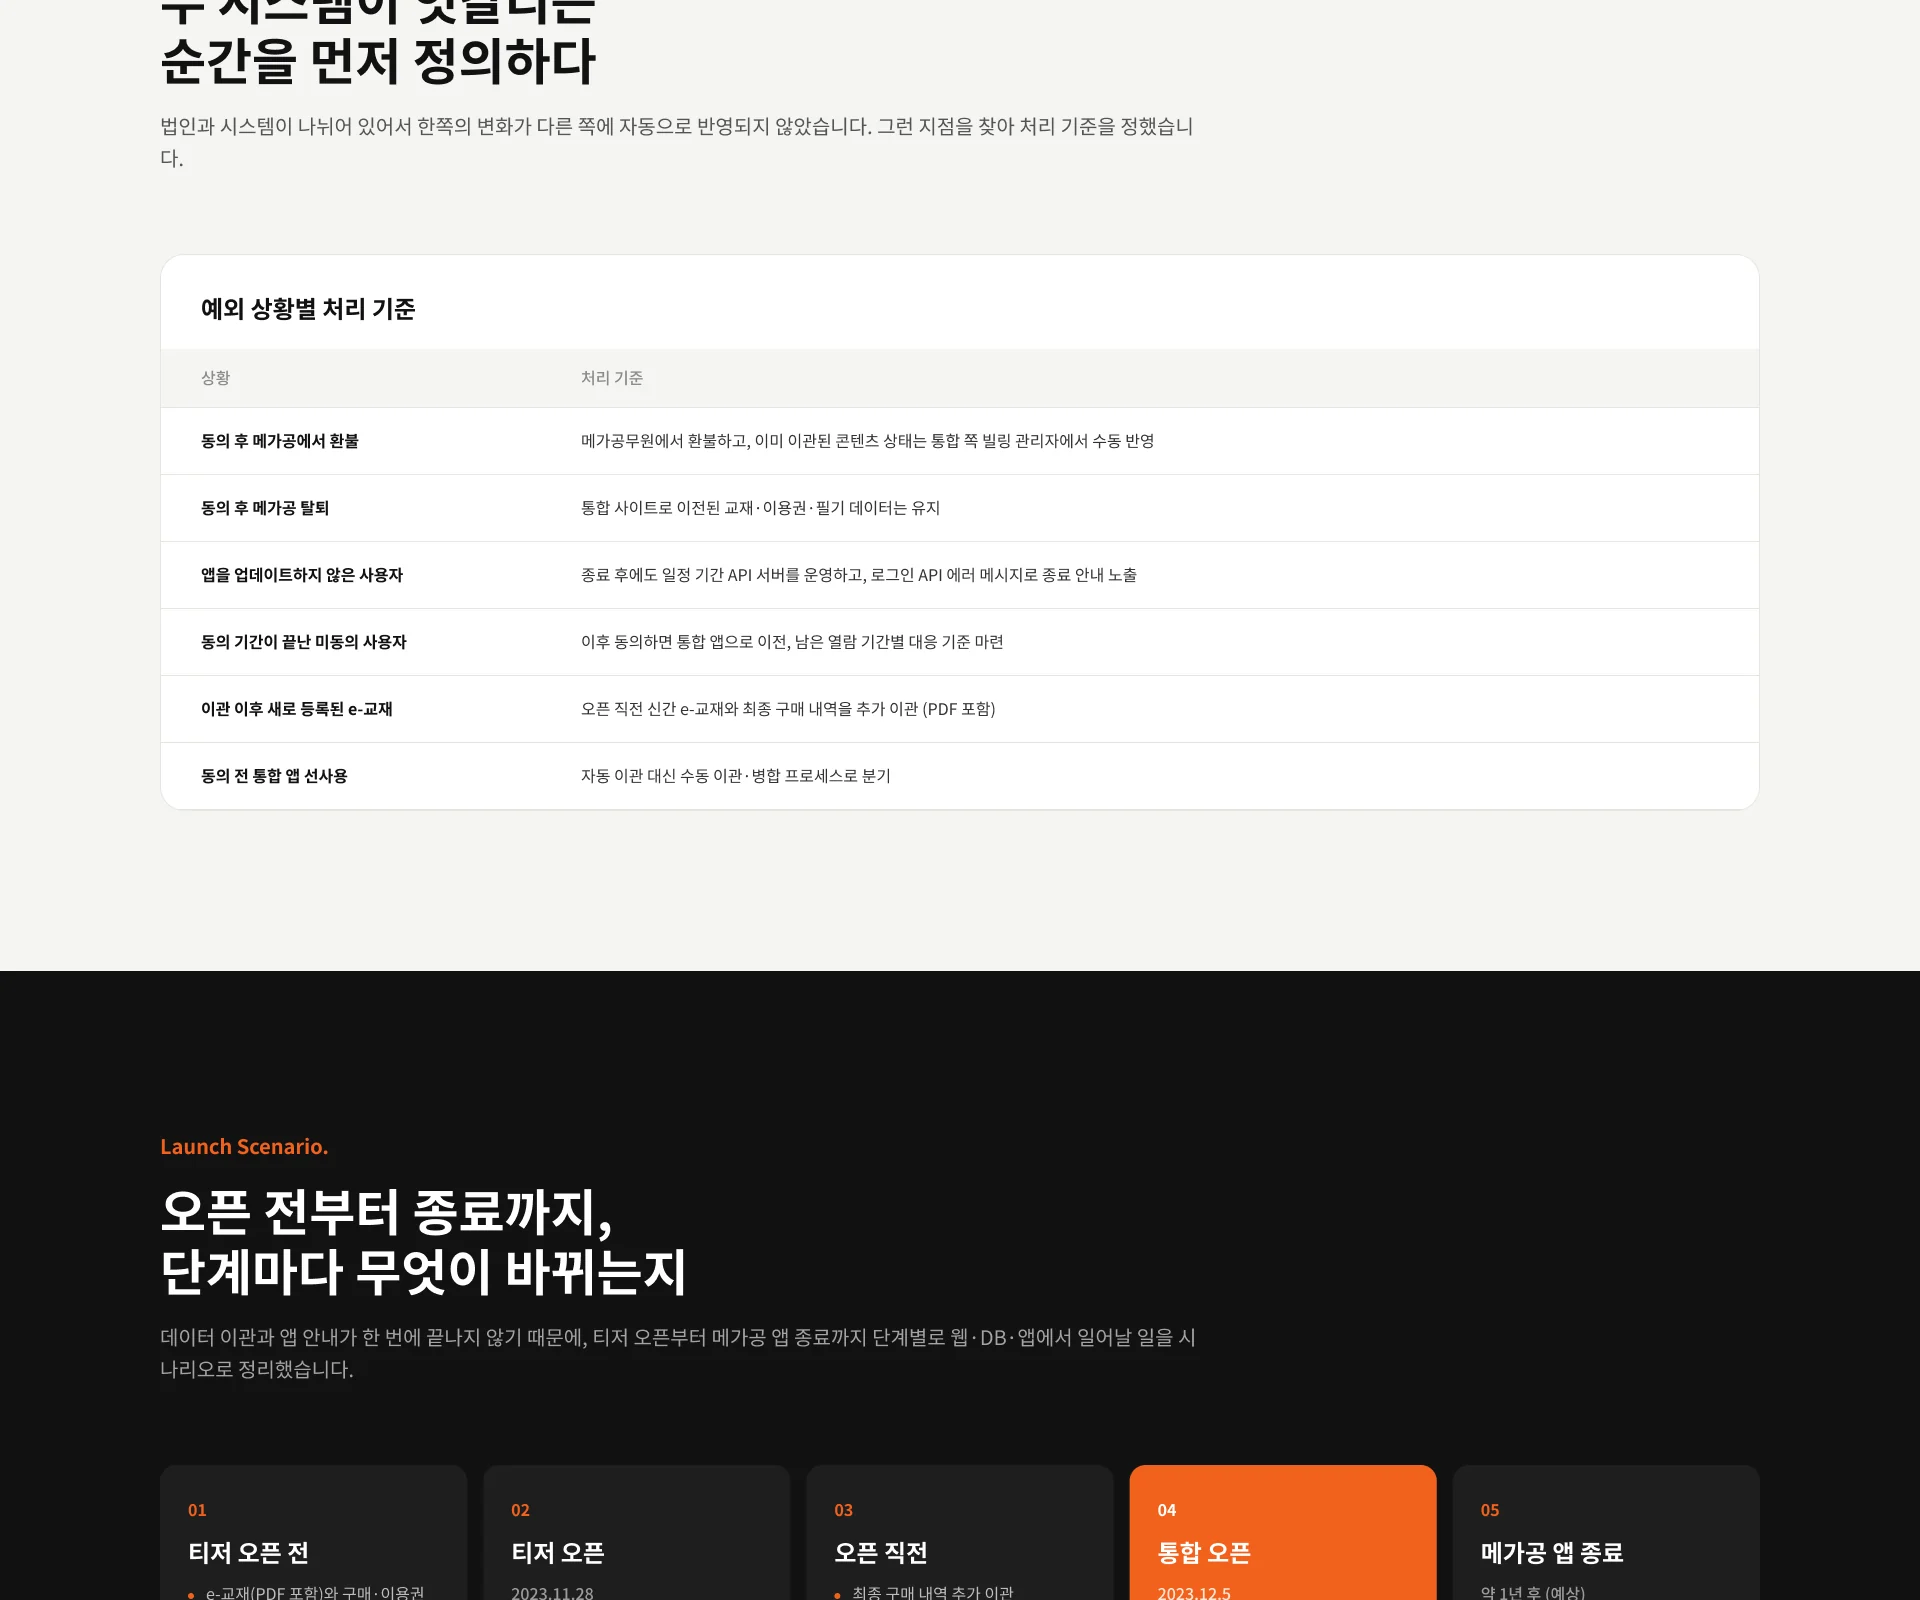
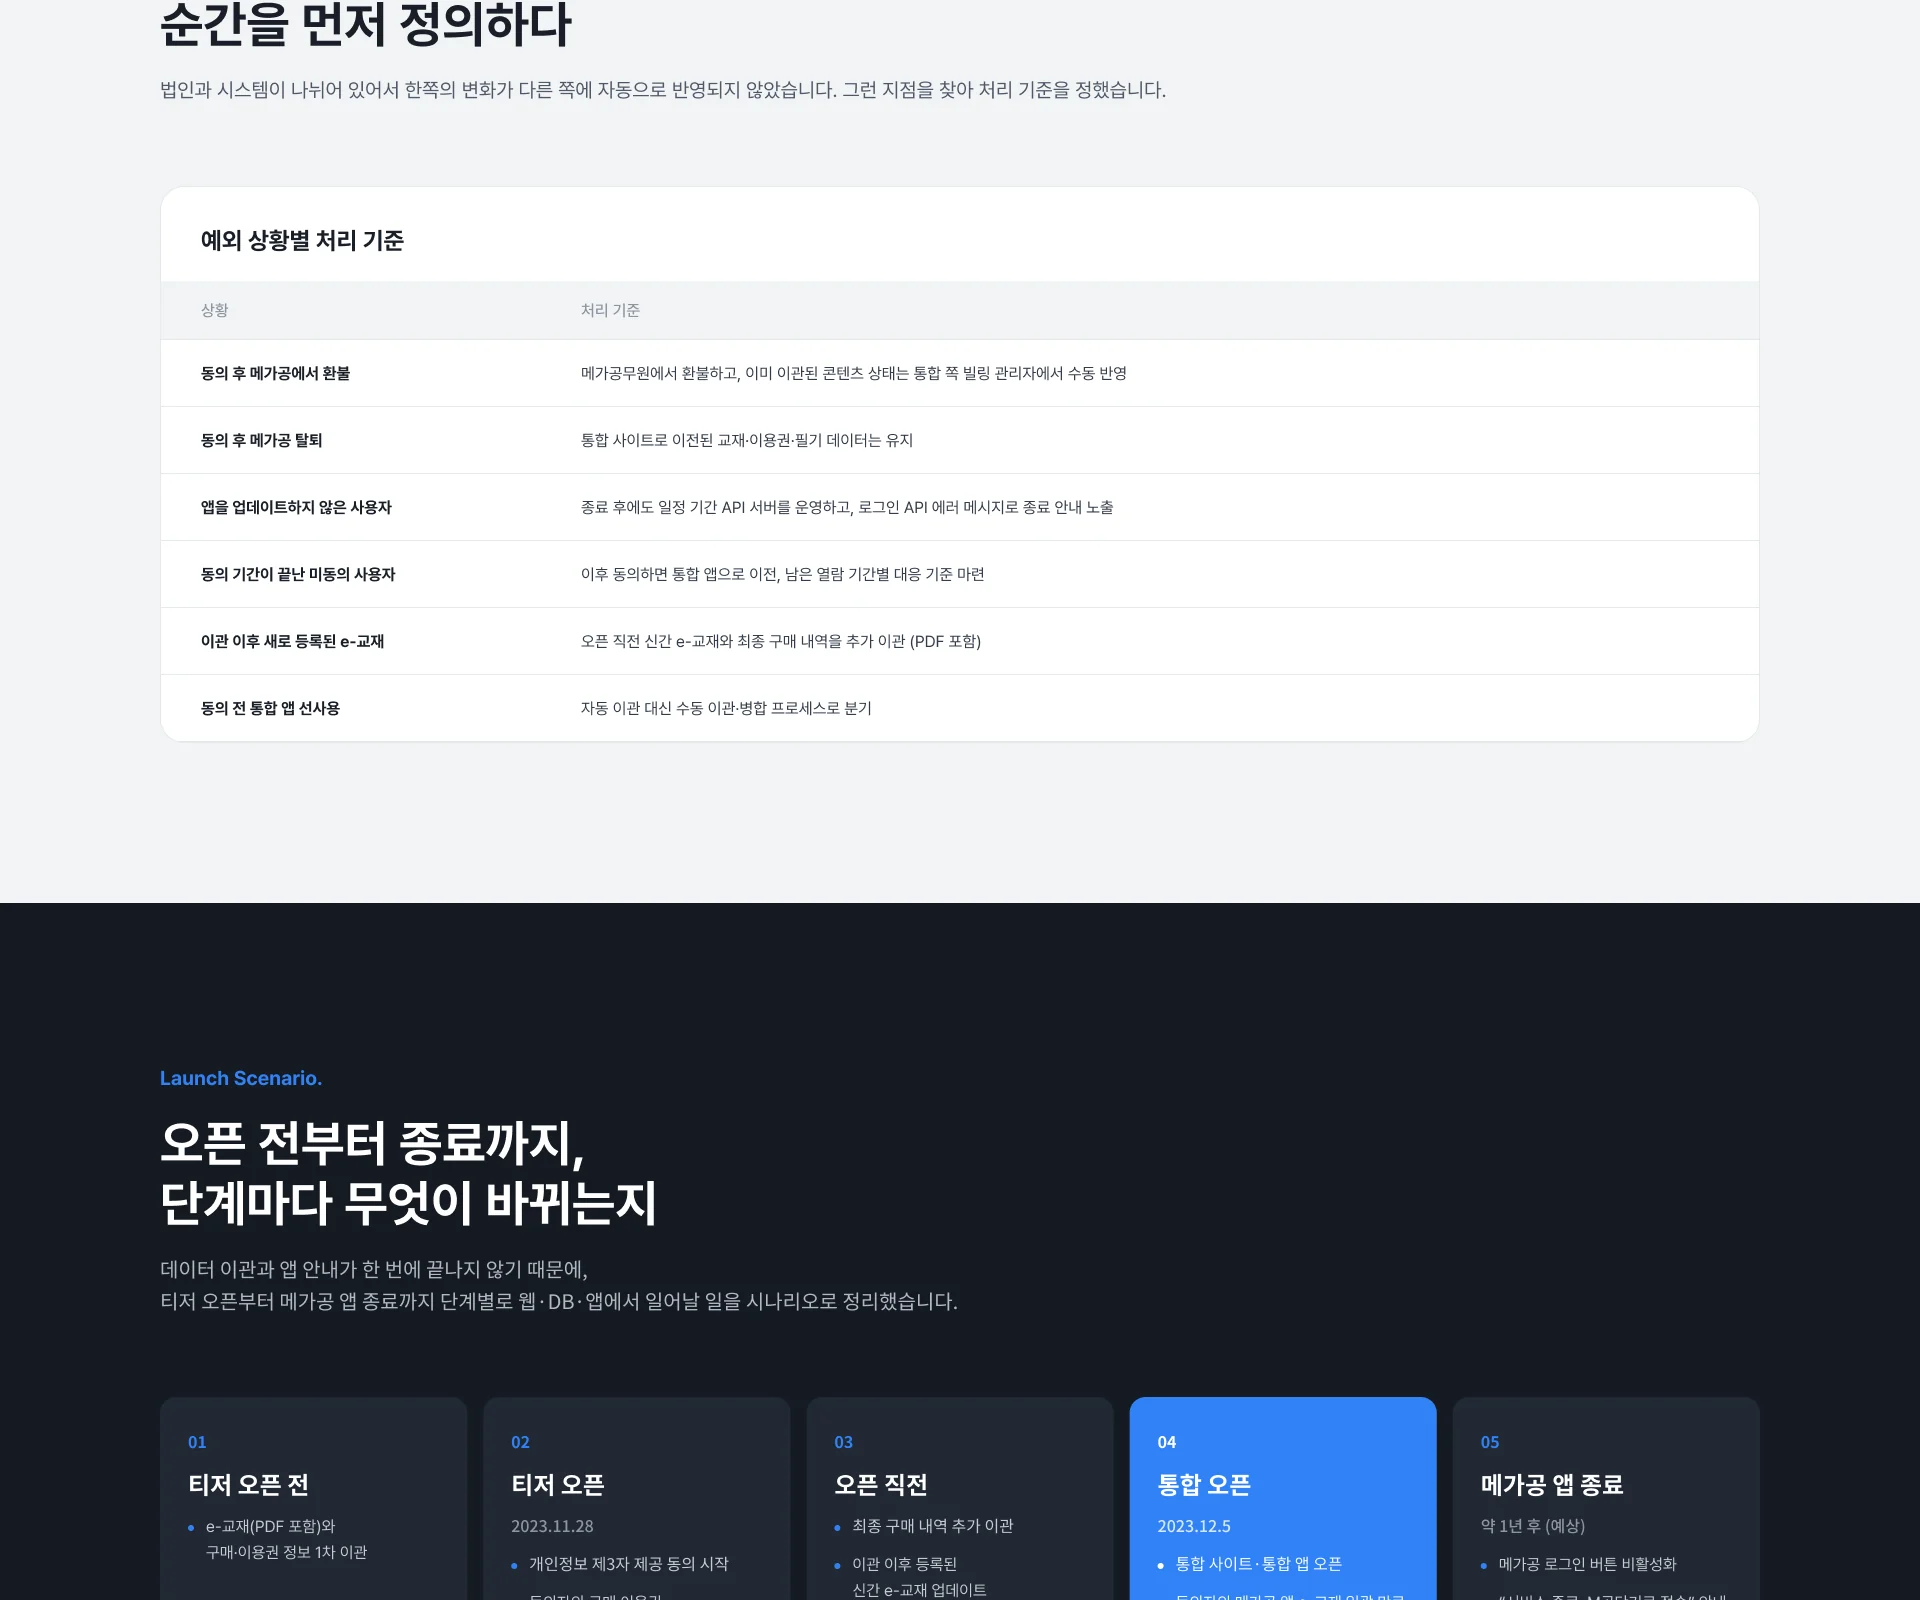
통합 스콘앱 케이스 업데이트: 블루 포인트 컬러, 쿨그레이, 줄바꿈 정리
Claude-Session: https://claude.ai/code/session_01QV7wYqkU83D7bwUJku8a5N

diff --git a/work/scon.html b/work/scon.html
@@ -25,15 +25,14 @@
     </div>
   </header>
   <div class="case-body">
-    <img src="../img/scon/p00.webp" width="1920" height="1600" alt="두 서비스를 하나로, 통합 스콘앱 설계 케이스 스터디 (1/9)">
-    <img src="../img/scon/p01.webp" width="1920" height="1600" alt="두 서비스를 하나로, 통합 스콘앱 설계 케이스 스터디 (2/9)" loading="lazy">
-    <img src="../img/scon/p02.webp" width="1920" height="1600" alt="두 서비스를 하나로, 통합 스콘앱 설계 케이스 스터디 (3/9)" loading="lazy">
-    <img src="../img/scon/p03.webp" width="1920" height="1600" alt="두 서비스를 하나로, 통합 스콘앱 설계 케이스 스터디 (4/9)" loading="lazy">
-    <img src="../img/scon/p04.webp" width="1920" height="1600" alt="두 서비스를 하나로, 통합 스콘앱 설계 케이스 스터디 (5/9)" loading="lazy">
-    <img src="../img/scon/p05.webp" width="1920" height="1600" alt="두 서비스를 하나로, 통합 스콘앱 설계 케이스 스터디 (6/9)" loading="lazy">
-    <img src="../img/scon/p06.webp" width="1920" height="1600" alt="두 서비스를 하나로, 통합 스콘앱 설계 케이스 스터디 (7/9)" loading="lazy">
-    <img src="../img/scon/p07.webp" width="1920" height="1600" alt="두 서비스를 하나로, 통합 스콘앱 설계 케이스 스터디 (8/9)" loading="lazy">
-    <img src="../img/scon/p08.webp" width="1920" height="357" alt="두 서비스를 하나로, 통합 스콘앱 설계 케이스 스터디 (9/9)" loading="lazy">
+    <img src="../img/scon/p00.webp" width="1920" height="1600" alt="두 서비스를 하나로, 통합 스콘앱 설계 케이스 스터디 (1/8)">
+    <img src="../img/scon/p01.webp" width="1920" height="1600" alt="두 서비스를 하나로, 통합 스콘앱 설계 케이스 스터디 (2/8)" loading="lazy">
+    <img src="../img/scon/p02.webp" width="1920" height="1600" alt="두 서비스를 하나로, 통합 스콘앱 설계 케이스 스터디 (3/8)" loading="lazy">
+    <img src="../img/scon/p03.webp" width="1920" height="1600" alt="두 서비스를 하나로, 통합 스콘앱 설계 케이스 스터디 (4/8)" loading="lazy">
+    <img src="../img/scon/p04.webp" width="1920" height="1600" alt="두 서비스를 하나로, 통합 스콘앱 설계 케이스 스터디 (5/8)" loading="lazy">
+    <img src="../img/scon/p05.webp" width="1920" height="1600" alt="두 서비스를 하나로, 통합 스콘앱 설계 케이스 스터디 (6/8)" loading="lazy">
+    <img src="../img/scon/p06.webp" width="1920" height="1600" alt="두 서비스를 하나로, 통합 스콘앱 설계 케이스 스터디 (7/8)" loading="lazy">
+    <img src="../img/scon/p07.webp" width="1920" height="1889" alt="두 서비스를 하나로, 통합 스콘앱 설계 케이스 스터디 (8/8)" loading="lazy">
   </div>
   <footer class="case-foot">
     <div class="wrap">
